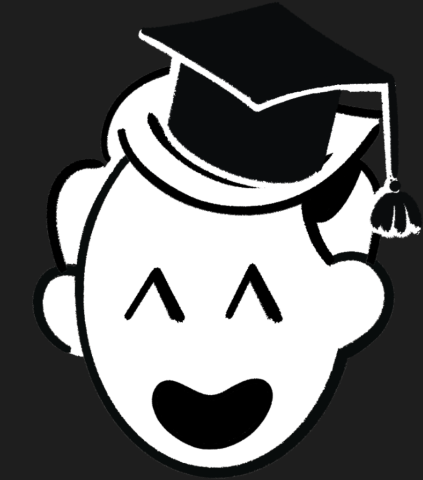
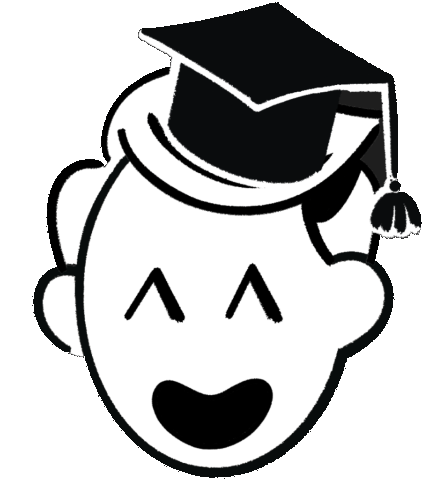
Show short teacher names and a transparent mascot

diff --git a/src/lib/catalog/names.ts b/src/lib/catalog/names.ts
@@ -1,0 +1,35 @@
+import type { Teacher } from "./types";
+
+const letters = (word: string) =>
+  word.normalize("NFKD").replace(/\p{M}/gu, "").toLowerCase().replace(/[^\p{L}]/gu, "");
+
+function distance(a: string, b: string) {
+  let row = Array.from({ length: b.length + 1 }, (_, i) => i);
+  for (let i = 1; i <= a.length; i++) {
+    const next = [i];
+    for (let j = 1; j <= b.length; j++) {
+      next[j] = Math.min(row[j] + 1, next[j - 1] + 1, row[j - 1] + (a[i - 1] === b[j - 1] ? 0 : 1));
+    }
+    row = next;
+  }
+  return row[b.length];
+}
+
+/**
+ * Keeps a given name and a surname. Sources give the parts in any order, so the
+ * surname comes from the email id: `a-herrmann` turns "Anton Wolfgang Herrmann"
+ * into "Anton Herrmann". Without such an id the first two words stay.
+ */
+export function shortName({ id, display_name: name }: Pick<Teacher, "id" | "display_name">) {
+  const words = name.trim().split(/\s+/);
+  if (words.length <= 2) return name.trim();
+  const parts = id.match(/^([a-z]+)-([a-z]+)$/);
+  if (!parts) return words.slice(0, 2).join(" ");
+  const [, initials, surname] = parts;
+  const closest = words
+    .map((word, index) => ({ index, cost: distance(letters(word), surname) }))
+    .sort((a, b) => a.cost - b.cost || a.index - b.index)[0].index;
+  const others = words.map((_, index) => index).filter((index) => index !== closest);
+  const given = others.find((index) => letters(words[index]).startsWith(initials[0])) ?? others[0];
+  return [closest, given].sort((a, b) => a - b).map((index) => words[index]).join(" ");
+}

diff --git a/tests/unit/names.test.ts b/tests/unit/names.test.ts
@@ -1,0 +1,19 @@
+import { describe, expect, it } from "vitest";
+import { shortName } from "@/lib/catalog/names";
+
+const short = (id: string, display_name: string) => shortName({ id, display_name });
+
+describe("shortName", () => {
+  it("keeps two word names", () => expect(short("g-pinto", "Gonçalo Pinto")).toBe("Gonçalo Pinto"));
+  it("drops a father's name", () => {
+    expect(short("a-kayumov", "Abduaziz Qayumov Ismat")).toBe("Abduaziz Qayumov");
+    expect(short("ar-abdukarimov", "Abdukarimov Abduhafiz Ravshanjon")).toBe("Abdukarimov Abduhafiz");
+  });
+  it("finds the surname from the email id", () => {
+    expect(short("a-herrmann", "Anton Wolfgang Herrmann")).toBe("Anton Herrmann");
+    expect(short("k-abbaszadeh", "Abbaszade Askeshahri Keyvan Naser")).toBe("Abbaszade Keyvan");
+  });
+  it("uses the first two words without an email id", () => {
+    expect(short("250595", "Azimov Asror Abrorjon")).toBe("Azimov Asror");
+  });
+});

diff --git a/src/lib/catalog/index.ts b/src/lib/catalog/index.ts
@@ -1,3 +1,4 @@
+import { shortName } from "./names";
 import { cache } from "react";
 import { db } from "@/lib/db";
 import { catalogCache } from "@/lib/db/schema";
@@ -23,6 +24,9 @@ export const getCatalog = cache(async (): Promise<Catalog> => {
     const built = row.sourceUpdatedAt;
     if (built && (!catalog.updatedAt || built < catalog.updatedAt)) catalog.updatedAt = built;
   }
+  catalog.teachers = catalog.teachers.map((teacher) => ({ ...teacher, display_name: shortName(teacher) }));
+  const names = new Map(catalog.teachers.map((teacher) => [teacher.id, teacher.display_name]));
+  catalog.timetable = catalog.timetable.map((lesson) => ({ ...lesson, teacher_name: names.get(lesson.teacher ?? "") ?? lesson.teacher_name }));
   return catalog;
 });
 
